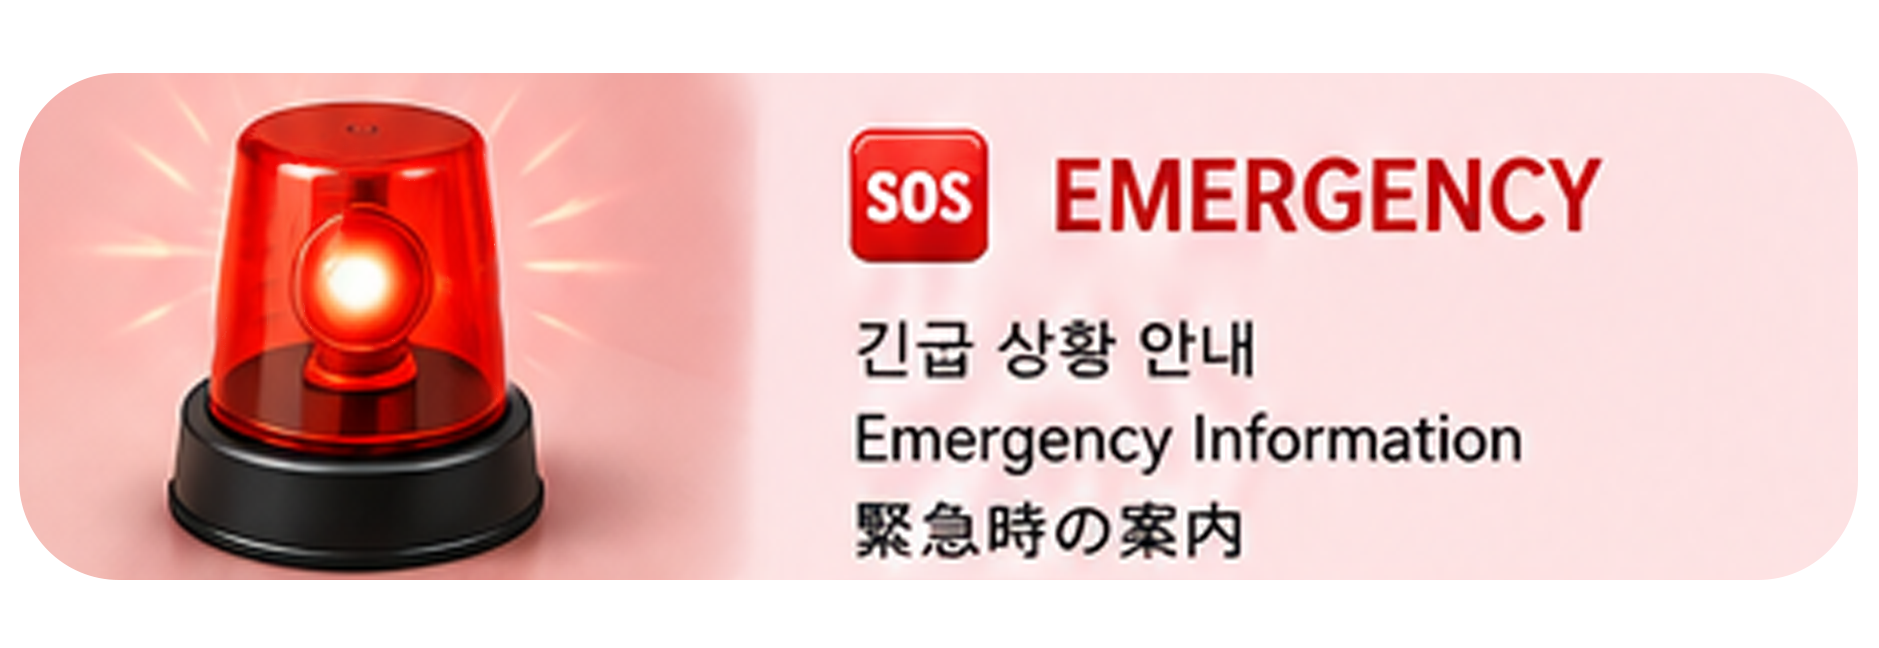
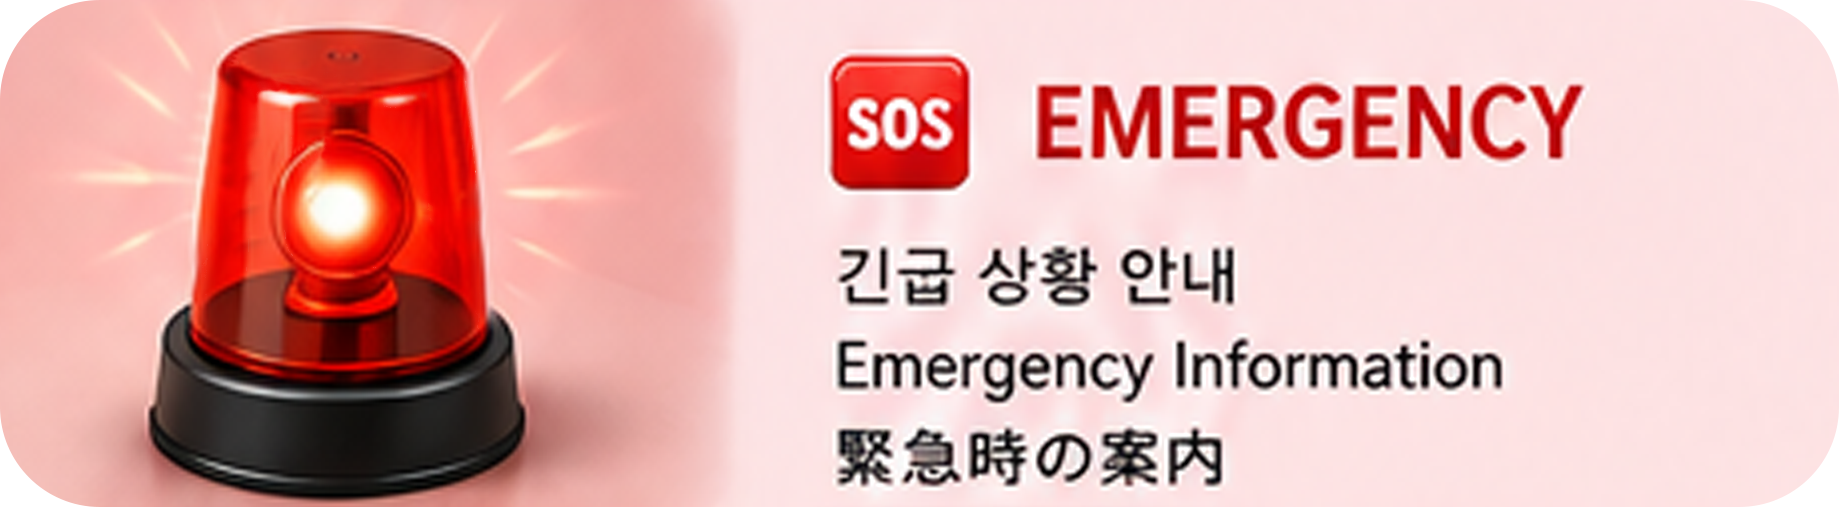
Convert md to html

diff --git a/index.html b/index.html
@@ -1,12 +1,40 @@
-<div align="center">
+ChatGPT의 말:
+index.html에서 <style> 부분을 제거하고, 별도 styles.css 파일로 분리하면 됩니다.
+
+구조:
+
+Korea-Travel-Guidebook/
+├── index.html
+├── styles.css
+├── Images/
+└── pages/
+index.html
+<!DOCTYPE html>
+<html lang="ko">
+<head>
+  <meta charset="UTF-8">
+  <meta name="viewport" content="width=device-width, initial-scale=1.0">
+
+  <title>Korea Travel Guide</title>
+
+  <link rel="stylesheet" href="./styles.css">
+</head>
+
+<body>
+
+<div>
 
   <img src="./Images/cover/korea-cover.png"
        width="100%"
        alt="Korea Travel Guide">
 
-  <h3>(KR) 한국 여행 가이드 | (EN) Korea Travel Guide | (JP) 韓国旅行ガイド</h3>
+  <h3>
+    (KR) 한국 여행 가이드 |
+    (EN) Korea Travel Guide |
+    (JP) 韓国旅行ガイド
+  </h3>
 
----
+  <hr>
 
   <p>
     (KR) 한국 여행을 조금 더 편하고 맛있게 즐길 수 있도록 만든 작은 여행 가이드입니다.
@@ -22,92 +50,92 @@
 
 </div>
 
+
 <hr>
 
-<div align="center">
+
+<div class="menu">
 
   <h2>✨ EXPLORE KOREA</h2>
-
-  <br>
 
   <p>
     <a href="pages/before-trip.md">
       <img src="./Images/menu/before-trip.png"
-           width="45%"
            alt="Before Your Trip">
     </a>
-    &nbsp;&nbsp;
+
     <a href="pages/transportation.md">
       <img src="./Images/menu/transportation.png"
-           width="45%"
            alt="Transportation Guide">
     </a>
   </p>
 
+
   <p>
     <a href="pages/apps.md">
       <img src="./Images/menu/apps.png"
-           width="45%"
            alt="Useful Apps">
     </a>
-    &nbsp;&nbsp;
+
     <a href="pages/foods.md">
       <img src="./Images/menu/foods.png"
-           width="45%"
            alt="Korean Food Guide">
     </a>
   </p>
 
+
   <p>
     <a href="pages/shopping.md">
       <img src="./Images/menu/shopping.png"
-           width="45%"
            alt="Shopping Guide">
     </a>
-    &nbsp;&nbsp;
+
     <a href="pages/souvenir.md">
       <img src="./Images/menu/souvenir.png"
-           width="45%"
            alt="Souvenir Guide">
     </a>
   </p>
 
+
   <p>
     <a href="pages/convenience-store.md">
       <img src="./Images/menu/convenience-store.png"
-           width="45%"
            alt="Convenience Store">
     </a>
-    &nbsp;&nbsp;
+
     <a href="pages/useful-korean.md">
       <img src="./Images/menu/useful-korean.png"
-           width="45%"
            alt="Useful Korean">
     </a>
   </p>
 
+
   <p>
     <a href="pages/travel-tips.md">
-      <img src="Images/menu/travel-tips.png"
-           width="45%"
+      <img src="./Images/menu/travel-tips.png"
            alt="Travel Tips">
     </a>
-    &nbsp;&nbsp;
+
     <a href="pages/emergency.md">
       <img src="./Images/menu/emergency.png"
-           width="45%"
            alt="Emergency Information">
     </a>
   </p>
 
 </div>
 
+
 <hr>
 
-<div align="center">
+
+<div>
 
   <img src="./Images/cover/footer-korea.png"
        width="100%"
        alt="Korea Travel">
 
 </div>
+
+
+</body>
+</html>

diff --git a/styles.css b/styles.css
@@ -1,0 +1,58 @@
+body {
+  margin: 0;
+  padding: 20px;
+  font-family: Arial, sans-serif;
+  text-align: center;
+  background-color: #fff;
+  color: #222;
+}
+
+
+img {
+  max-width: 100%;
+  height: auto;
+}
+
+
+hr {
+  margin: 40px 0;
+  border: none;
+  border-top: 1px solid #ddd;
+}
+
+
+h2 {
+  margin-bottom: 30px;
+}
+
+
+.menu img {
+  width: 45%;
+  margin: 10px;
+  border-radius: 12px;
+  transition: transform 0.2s ease;
+}
+
+
+.menu img:hover {
+  transform: scale(1.03);
+}
+
+
+a {
+  text-decoration: none;
+}
+
+
+@media (max-width: 768px) {
+
+  .menu img {
+    width: 90%;
+    margin: 8px 0;
+  }
+
+  body {
+    padding: 10px;
+  }
+
+}

diff --git a/pages/before-trip.html b/pages/before-trip.html
@@ -1,6 +1,6 @@
 # ✈ BEFORE YOUR TRIP
 
-> [← Main Guide](../README.md)
+> [← Main Guide](../index.html)
 
 ## 💳 T-money · 티머니 · T-money交通カード
 - 🇰🇷 서울의 버스와 지하철에서 사용하는 충전식 교통카드입니다.

diff --git a/pages/shopping.html b/pages/shopping.html
@@ -1,6 +1,6 @@
 # 🛍 SHOPPING GUIDE
 
-> [← Main Guide](../README.md)
+> [← Main Guide](../index.html)
 
 ## Olive Young · 올리브영 · オリーブヤング
 Cosmetics · Face masks · Hair products · Snacks

diff --git a/pages/convenience-store.html b/pages/convenience-store.html
@@ -1,6 +1,6 @@
 # 🏪 KOREAN CONVENIENCE STORE
 
-> [← Main Guide](../README.md)
+> [← Main Guide](../index.html)
 
 - 바나나우유 · Banana Milk · バナナ牛乳
 - 비쵸비 · Bichobi · ビチョビ

diff --git a/pages/foods.html b/pages/foods.html
@@ -1,6 +1,6 @@
 # 🍜 KOREAN FOOD GUIDE
 
-> [← Main Guide](../README.md)
+> [← Main Guide](../index.html)
 
 <img src="../images/foods/food-guide-header.jpg" width="100%" alt="Korean Food Guide">
 

diff --git a/pages/airport-to-myeongdong.html b/pages/airport-to-myeongdong.html
@@ -1,6 +1,6 @@
 # 🚇 AIRPORT TO MYEONGDONG
 
-> [← Main Guide](../README.md)
+> [← Main Guide](../index.html)
 
 1. 인천공항에서 AREX 이용  
 2. 서울역에서 지하철 4호선 환승  

diff --git a/pages/useful-korean.html b/pages/useful-korean.html
@@ -1,6 +1,6 @@
 # 💬 USEFUL KOREAN
 
-> [← Main Guide](../README.md)
+> [← Main Guide](../index.html)
 
 | 한국어 | Romanization | English | 日本語 |
 |---|---|---|---|
